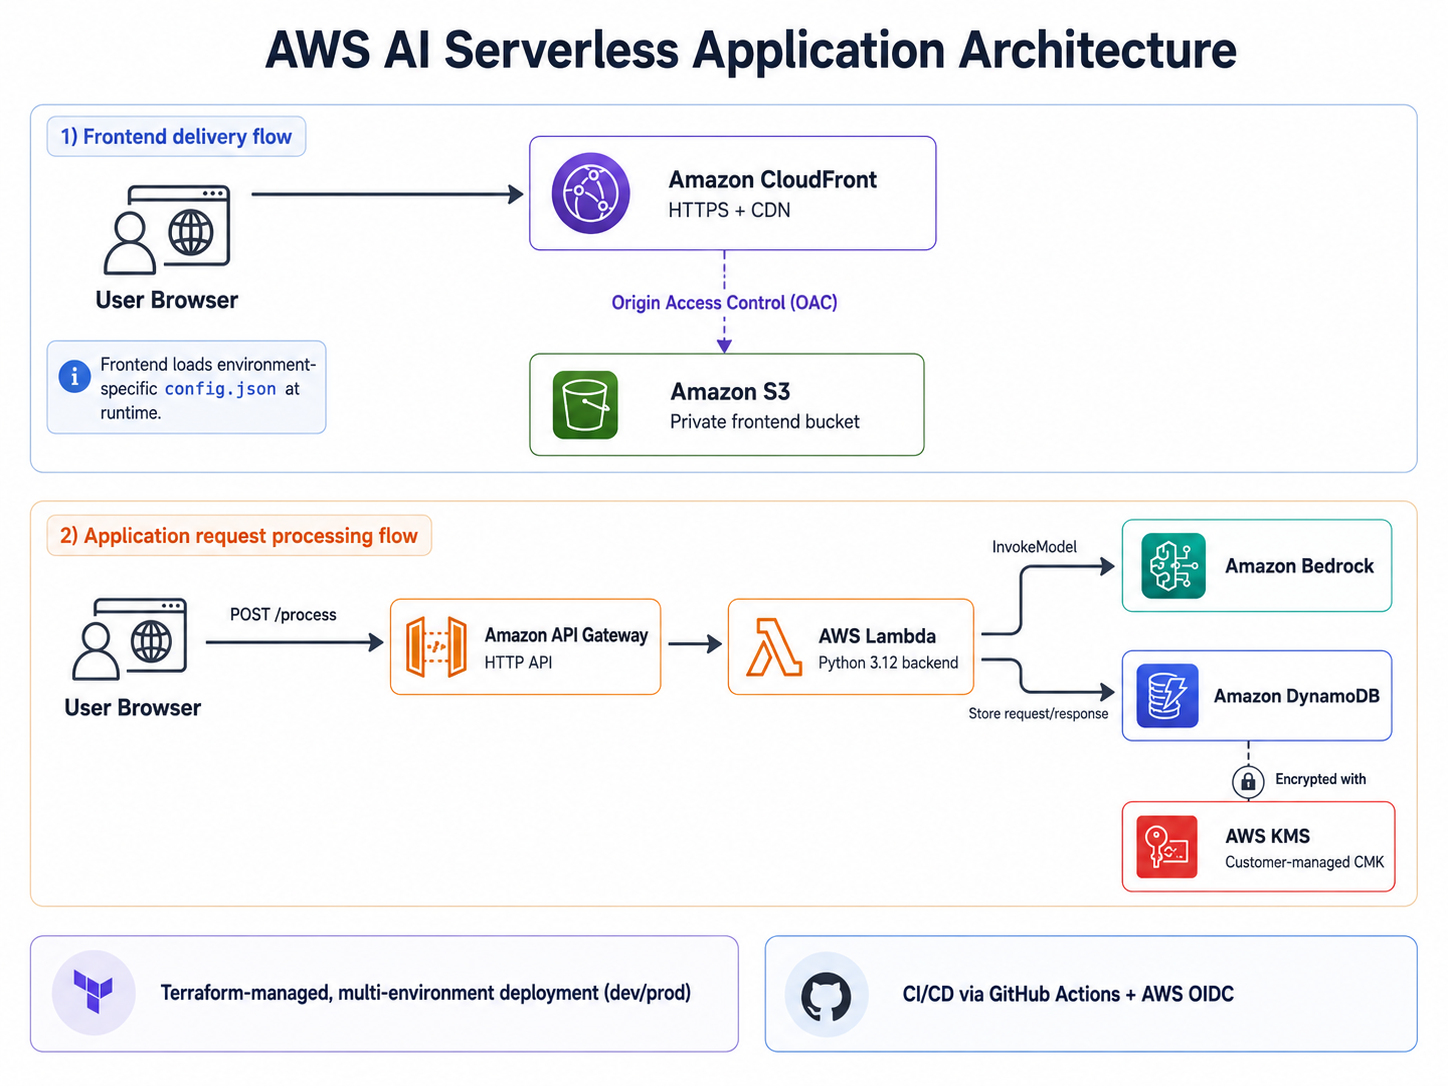
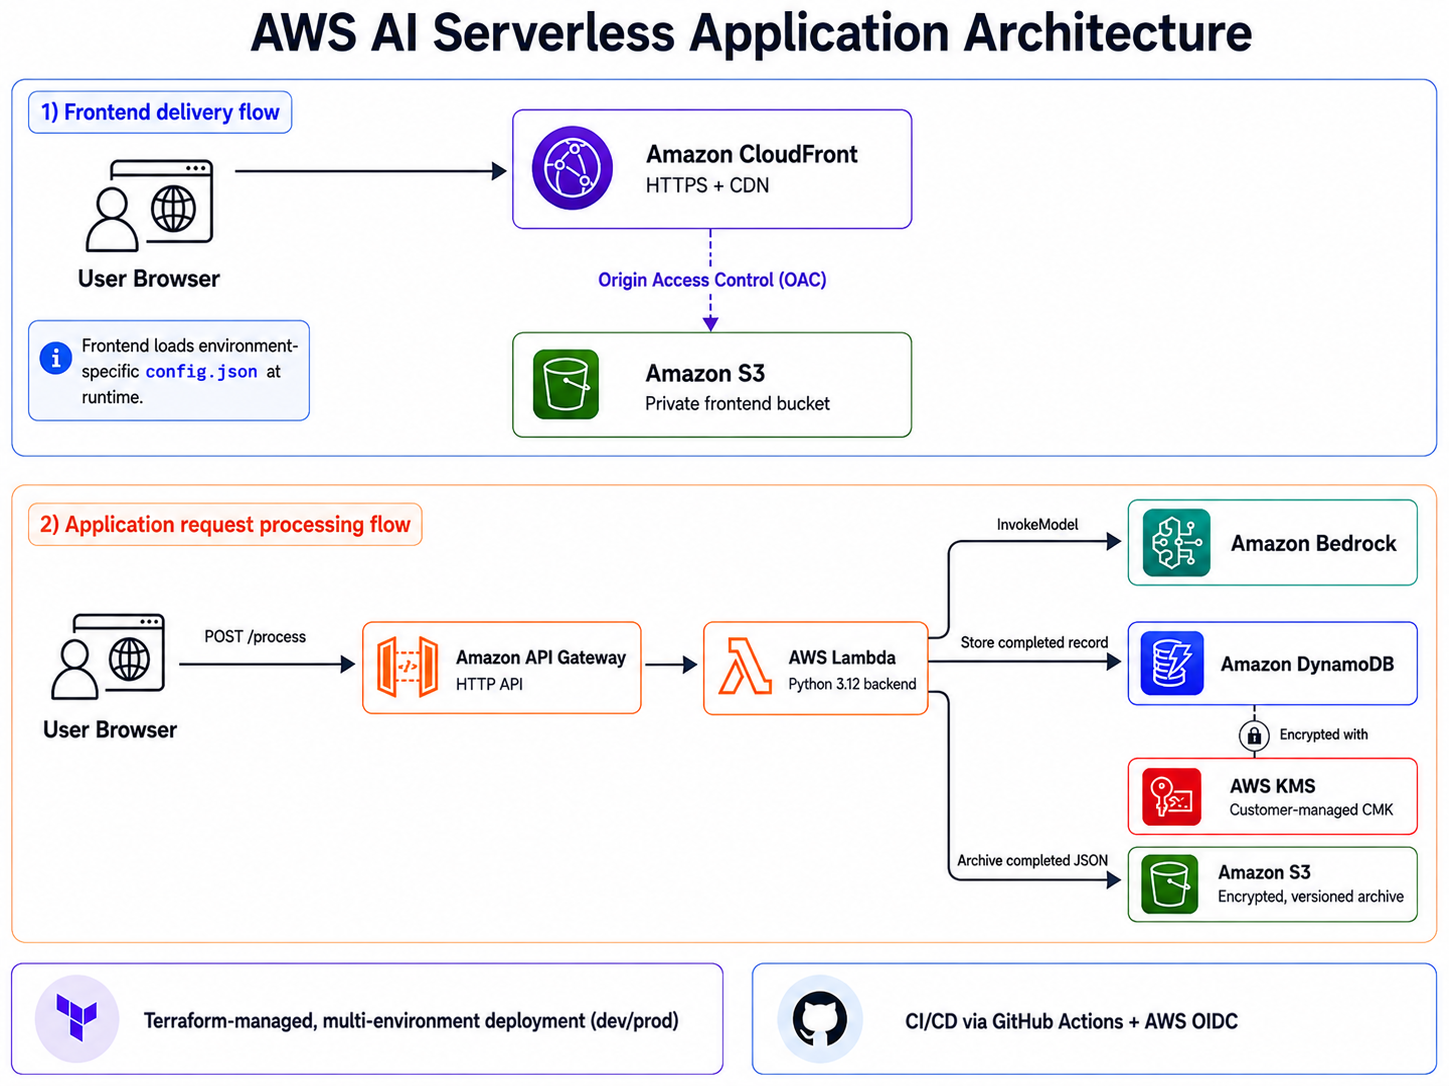
docs: document S3 request archival

Changed region(s): [[0.0, 0.0, 0.9945, 1.0], [0.9634, 0.395, 0.9945, 0.4254], [0.9634, 0.0912, 0.9945, 0.1215]]

diff --git a/README.md b/README.md
@@ -2,13 +2,13 @@
 
 A production-style serverless AI application built on AWS and provisioned with Terraform. The project demonstrates secure static frontend delivery, a managed serverless API, generative AI integration with Amazon Bedrock, encrypted persistence in DynamoDB, multi-environment infrastructure, and controlled CI/CD through GitHub Actions and AWS OIDC.
 
-The application accepts a prompt from a browser-based frontend, sends it through an API Gateway HTTP API to AWS Lambda, invokes an Amazon Bedrock foundation model, persists the interaction in DynamoDB, and returns the generated response to the user.
+The application accepts a prompt from a browser-based frontend, sends it through an API Gateway HTTP API to AWS Lambda, invokes an Amazon Bedrock foundation model, persists the completed interaction in DynamoDB, archives the same record as JSON in S3, and returns the generated response to the user.
 
 ## Architecture
 
 ![AWS AI Serverless Application Architecture](./docs/architecture/aws-ai-serverless-architecture.png)
 
-CloudFront provides the public HTTPS entry point for the static frontend while the S3 origin remains private through Origin Access Control (OAC). The browser calls an API Gateway HTTP API, which invokes a Python 3.12 Lambda function. Lambda orchestrates the Bedrock model invocation and persists application data in a DynamoDB table encrypted with a customer-managed AWS KMS key.
+CloudFront provides the public HTTPS entry point for the static frontend while the S3 origin remains private through Origin Access Control (OAC). The browser calls an API Gateway HTTP API, which invokes a Python 3.12 Lambda function. Lambda orchestrates the Bedrock model invocation, writes the completed record to a DynamoDB table encrypted with a customer-managed AWS KMS key, and archives the same record in a separate application-data S3 bucket.
 
 ## Request Flow
 
@@ -18,8 +18,9 @@ CloudFront provides the public HTTPS entry point for the static frontend while t
 4. The user submits a prompt to the API Gateway HTTP API.
 5. API Gateway invokes the Lambda backend.
 6. Lambda sends the prompt to Amazon Bedrock.
-7. Lambda stores the interaction in DynamoDB.
-8. The generated response is returned through API Gateway to the frontend.
+7. Lambda writes the completed interaction to DynamoDB.
+8. Lambda archives the same completed record as JSON in S3.
+9. The generated response is returned through API Gateway to the frontend.
 
 ## Application Preview
 
@@ -54,6 +55,10 @@ Amazon Bedrock provides managed access to foundation models without requiring mo
 ### DynamoDB with customer-managed KMS encryption
 
 Application data is stored in DynamoDB using on-demand billing. The table is encrypted with a customer-managed AWS KMS key, demonstrating explicit control of encryption at rest rather than relying solely on service-default encryption.
+
+### Encrypted, versioned S3 archive
+
+After writing a completed interaction to DynamoDB, Lambda archives the same record as a JSON object under `requests/<timestamp>-<request_id>.json` in a separate private application-data S3 bucket. Public access is blocked, default SSE-S3 (`AES256`) encryption is enabled, and S3 Versioning is enabled for the archive bucket.
 
 ### Runtime frontend configuration
 
